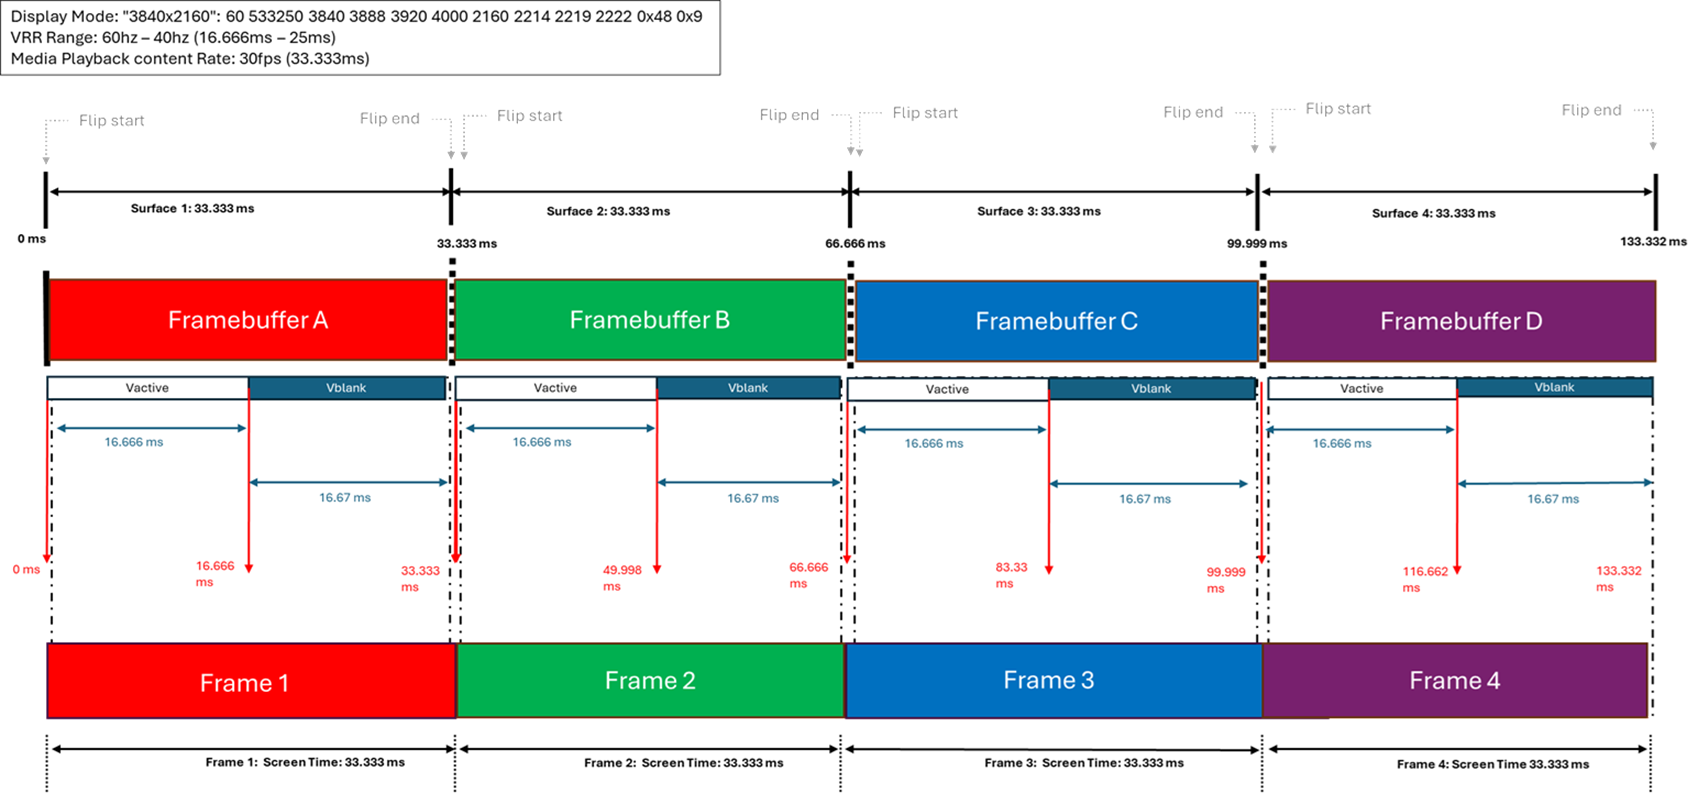
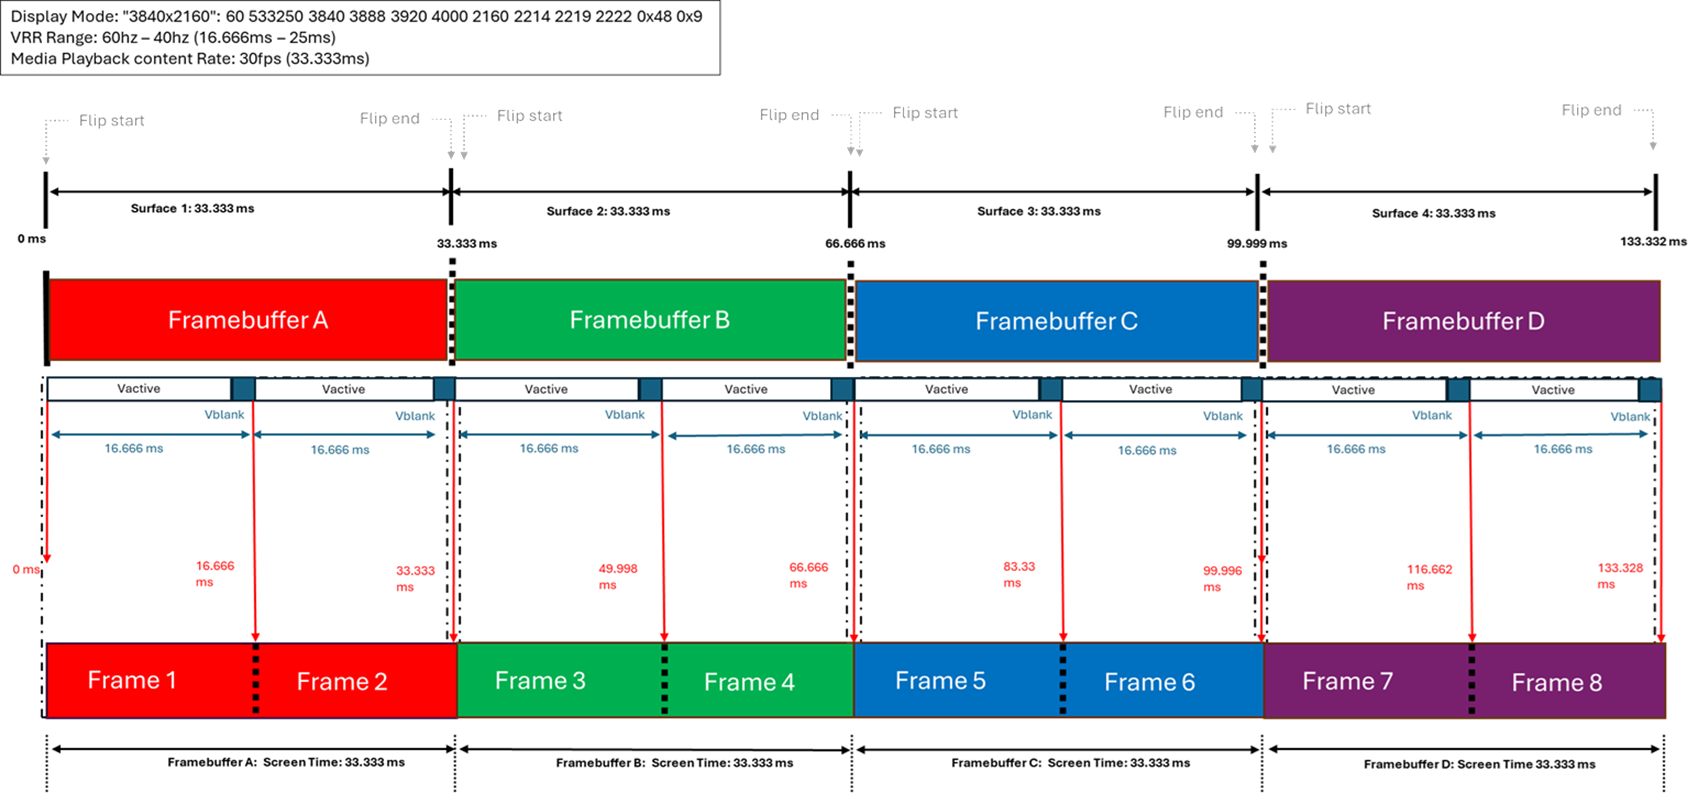
Improve doc and image

diff --git a/judder-media-playback-vrr.md b/judder-media-playback-vrr.md
@@ -13,25 +13,26 @@ content in mpv on Wayland.
 ### Media playback judder
 ![](/images/judder_with_media_playback_vrr.png)
 
-- On a 40-60 Hz VRR panel, refresh interval can vary only between 16.67 ms and 25 ms.
-- But 30 fps video delivers a new frame every 33.33 ms, which falls below the
-panel’s minimum VRR range.
+- On a 40-60 Hz VRR panel, refresh interval can vary only between 16.67 ms and
+25 ms.
+- A 30 fps video delivers a new frame every 33.33 ms, which is longer than that
+limit and therefore outside the panel’s VRR operating window.
 - Because of this, frames cannot be displayed at a uniform cadence and instead
 alternate between longer and shorter display times, about 41.67 (25+16.67) ms and 25 ms.
 - The average frame timing remains correct, but the uneven frame pacing appears
 as visible judder.
 
 ## What can userspace do to fix this?
-- The client or media player passes the content frame rate using a new
-[content-frame-rate-v1](https://gitlab.freedesktop.org/NaveenKumar/wayland-protocols/-/commits/test-content-frame-rate?ref_type=heads) protocol to the compositor.
+- The client or media player passes the content frame rate (a rational frame rate numerator / denominator) using a new
+[wp-content-frame-rate-v1](https://gitlab.freedesktop.org/NaveenKumar/wayland-protocols/-/commits/test-content-frame-rate?ref_type=heads) protocol to the compositor.
 
 - The compositor should do the low framerate compensation (LFC) to choose the
 smallest stable refresh multiple that fits within the VRR range.
 
 - For 30 fps content on a 40 to 60 Hz panel, that target becomes 60 Hz, so each
-video frame is shown for exactly two scanouts.
+video frame will be shown for exactly two scanouts.
 
-- This restores a stable presentation cadence and removes judder.
+- This should restore a stable presentation cadence and removes judder.
 
 - The compositors can implement this by deriving a virtual display mode from the
 current KMS mode and [retiming vtotal, vsync_start, vsync_end, and vrefresh](https://gitlab.gnome.org/naveenk2/mutter/-/commit/4598557c5d2ec60b42ed3ffb4b6eb1e87357212b#line_229db3239_A169) to